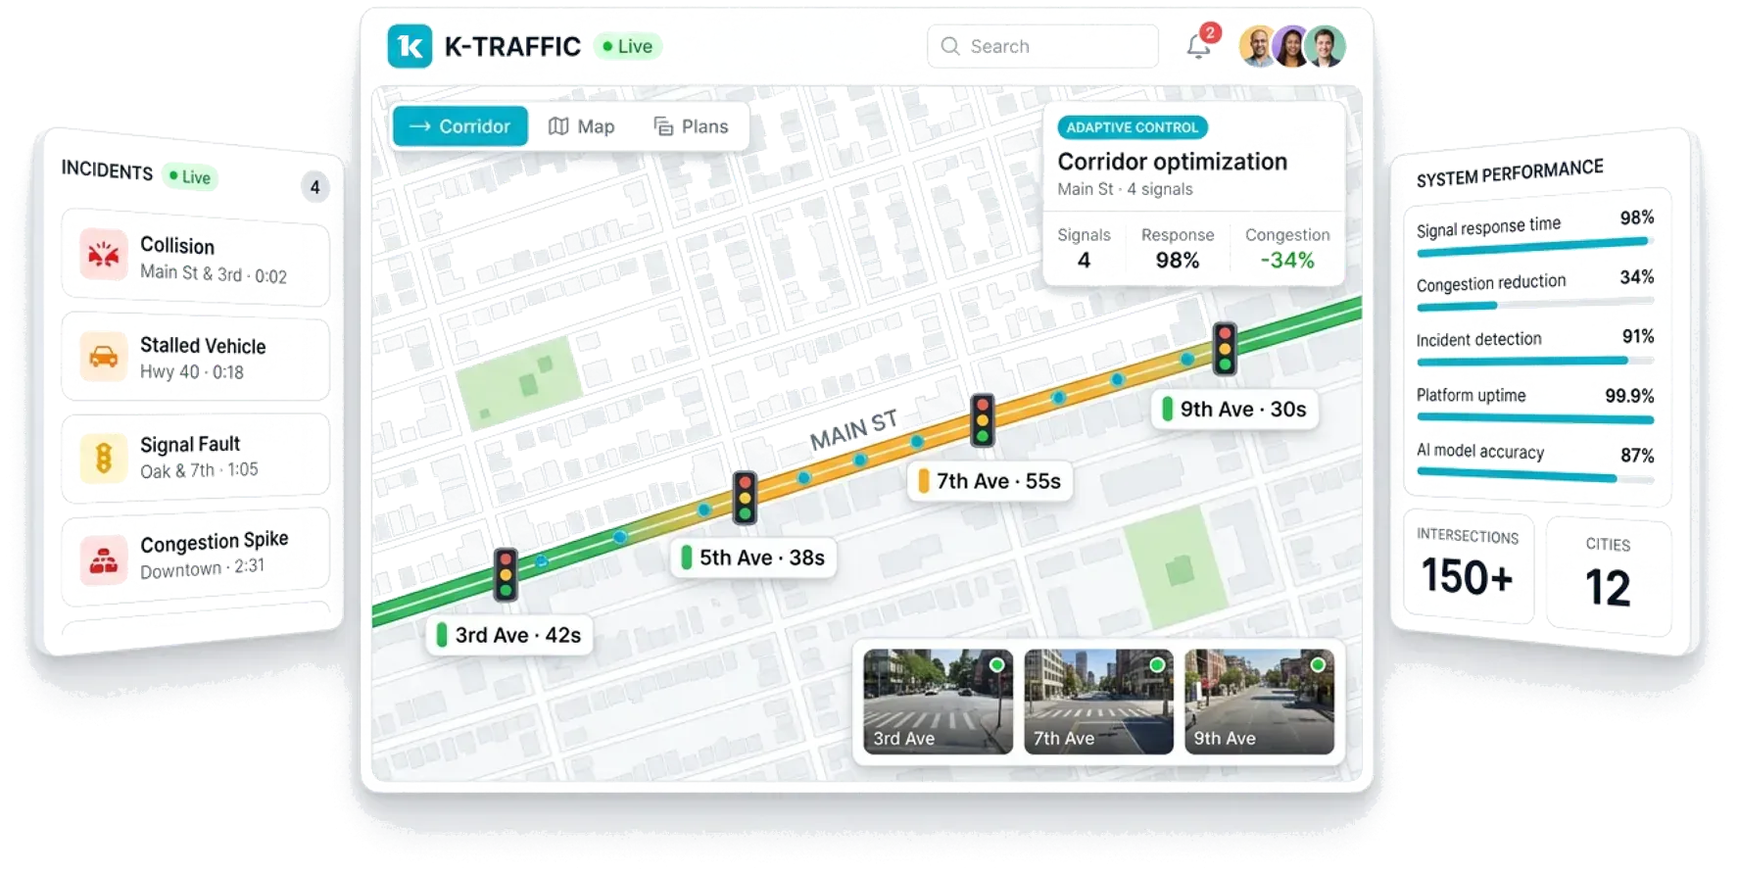
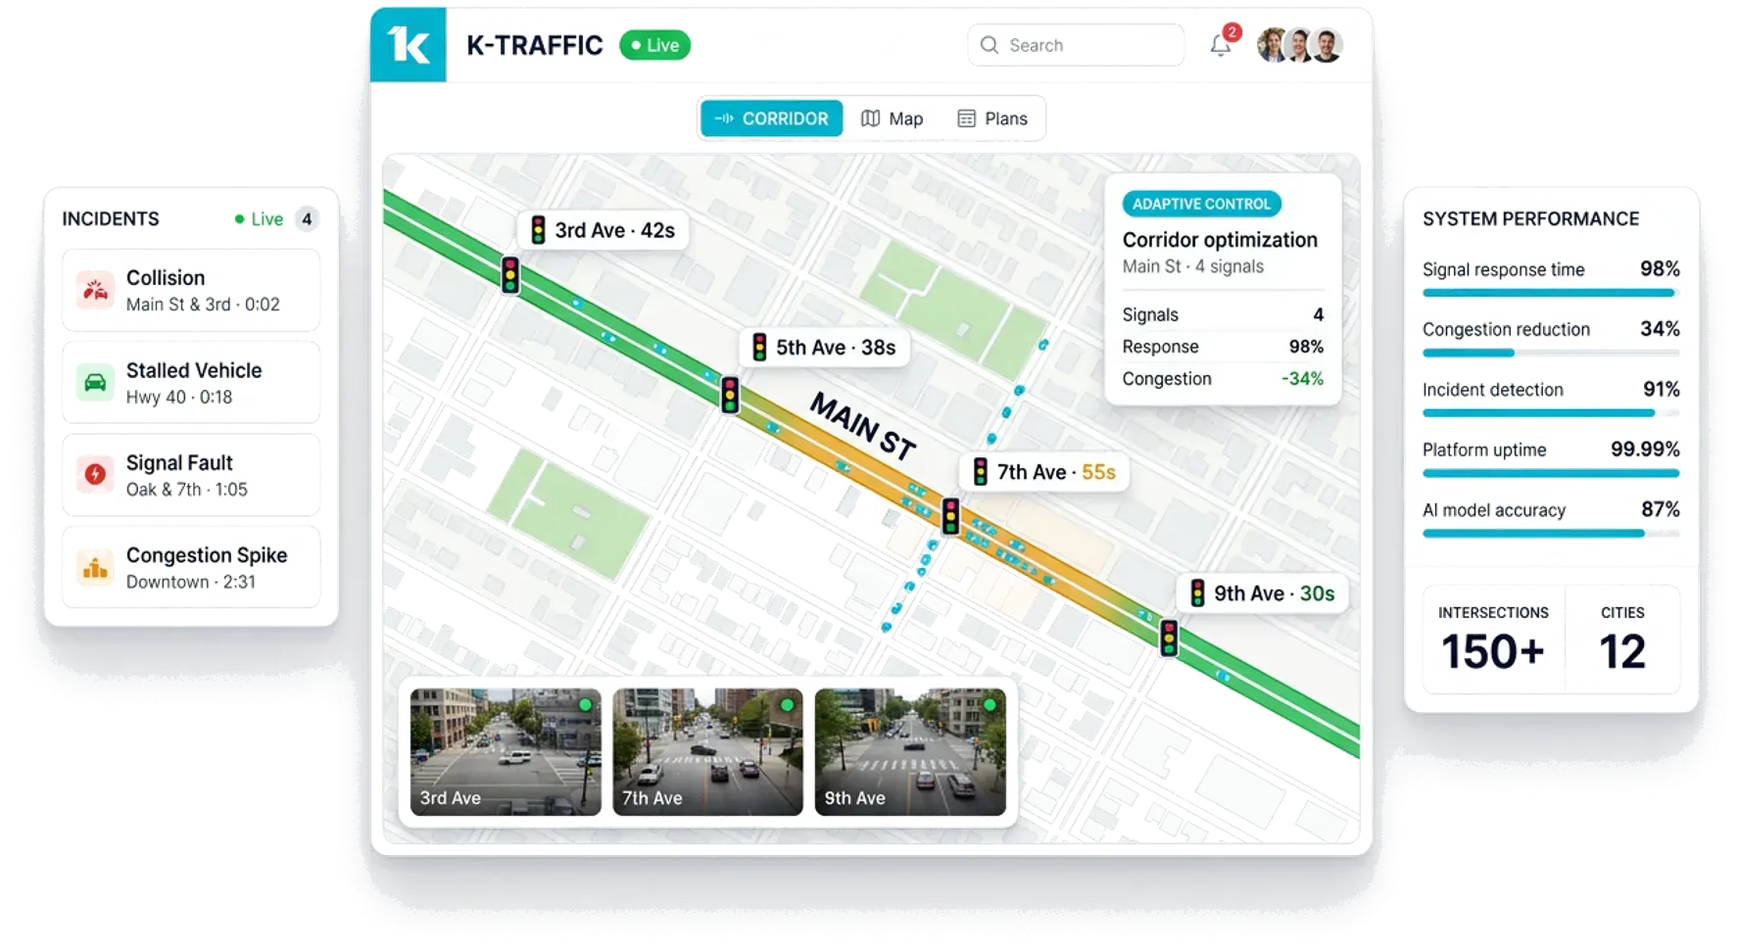
Change: reconcile citizens to 73M and uptime to 99.99% (v2.321)
The site was split between 70M and 73M — hero-lab said 70M+ while every
/vs/* page already said 73M. 40 files now carry 73M and none carry 70M.
99.9% becomes 99.99% across 32 occurrences.

The K-Video and K-Traffic performance panels bake their uptime figure
into the artwork, so a text-only change would have left both heroes
contradicting the copy beside them. Both regenerated with 99.99% and
reprocessed through the knockout/trim/1K-mark pipeline. Every other
in-use image was checked; none carries an uptime or citizens figure.

99.999% in resources/what-is-a-psap is left alone — that is the PSAP
five-nines industry standard, and 99.9% does not occur inside it.

diff --git a/src/components/hero-lab/sol-kvideo.ts b/src/components/hero-lab/sol-kvideo.ts
@@ -34,7 +34,7 @@ const KVIDEO: SolutionContent = {
   consoleTitle: S('K-VIDEO · LIVE WALL', 'K-VIDEO · MURO EN VIVO'),
   stats: [
     { v: '1,204+', l: S('Active cameras', 'Cámaras activas') },
-    { v: '99.9%', l: S('Uptime', 'Disponibilidad') },
+    { v: '99.99%', l: S('Uptime', 'Disponibilidad') },
     { v: '15+', l: S('AI models', 'Modelos de IA') },
   ],
 
@@ -63,8 +63,8 @@ const KVIDEO: SolutionContent = {
     },
     {
       icon: 'scale', t: S('Highly scalable & redundant', 'Altamente escalable y redundante'),
-      d: S('Microservices architecture handles thousands of cameras with 99.9% uptime and automatic failover.',
-        'Arquitectura de microservicios que maneja miles de cámaras con 99.9% de disponibilidad y conmutación automática por fallo.'),
+      d: S('Microservices architecture handles thousands of cameras with 99.99% uptime and automatic failover.',
+        'Arquitectura de microservicios que maneja miles de cámaras con 99.99% de disponibilidad y conmutación automática por fallo.'),
     },
     {
       icon: 'shield', t: S('Security & compliance', 'Seguridad y cumplimiento'),
@@ -144,9 +144,9 @@ const KVIDEO: SolutionContent = {
     { l: S('Face recognition accuracy', 'Precisión de reconocimiento facial'), v: '94%', w: '94%' },
     { l: S('LPR read rate', 'Tasa de lectura LPR'), v: '99%', w: '99%' },
     { l: S('Anomaly detection rate', 'Detección de anomalías'), v: '88%', w: '88%' },
-    /* Bar capped at 99% so a 99.9% claim doesn't render as a completely full
+    /* Bar capped at 99% so a 99.99% claim doesn't render as a completely full
        track — same treatment as K-Traffic's uptime bar. */
-    { l: S('Platform uptime', 'Disponibilidad de plataforma'), v: '99.9%', w: '99%' },
+    { l: S('Platform uptime', 'Disponibilidad de plataforma'), v: '99.99%', w: '99%' },
   ],
 
   processEyebrow: S('THE PROCESS', 'EL PROCESO'),
@@ -194,8 +194,8 @@ const KVIDEO: SolutionContent = {
     {
       q: S('How many cameras can K-Video manage?',
         '¿Cuántas cámaras puede gestionar K-Video?'),
-      a: S('K-Video supports over 10,000 cameras through its microservices architecture. It handles IP cameras, body cams, and drone streams with 99.9% uptime and automatic failover.',
-        'K-Video soporta más de 10,000 cámaras gracias a su arquitectura de microservicios. Maneja cámaras IP, body cams y streams de drones con 99.9% de disponibilidad y conmutación automática por fallo.'),
+      a: S('K-Video supports over 10,000 cameras through its microservices architecture. It handles IP cameras, body cams, and drone streams with 99.99% uptime and automatic failover.',
+        'K-Video soporta más de 10,000 cámaras gracias a su arquitectura de microservicios. Maneja cámaras IP, body cams y streams de drones con 99.99% de disponibilidad y conmutación automática por fallo.'),
     },
     {
       q: S('Does K-Video support third-party cameras?',
@@ -246,7 +246,7 @@ const KVIDEO: SolutionContent = {
     'Cámaras de múltiples fabricantes y municipios alimentan una sola imagen operativa estatal, con analítica e investigaciones sobre toda la red en vez de sistema por sistema.'),
   caseStats: [
     { v: S('Multi-vendor', 'Multi-fabricante'), l: S('Camera network', 'Red de cámaras') },
-    { v: '99.9%', l: S('Platform uptime', 'Disponibilidad de plataforma') },
+    { v: '99.99%', l: S('Platform uptime', 'Disponibilidad de plataforma') },
     { v: '15+', l: S('AI models running', 'Modelos de IA activos') },
   ],
   caseNote: S('Figures reflect reported platform performance. Deployment details subject to customer approval.',

diff --git a/src/app/[locale]/industries/public-safety/page.tsx b/src/app/[locale]/industries/public-safety/page.tsx
@@ -40,12 +40,12 @@ export default async function PublicSafetyPage({
       ? [
           { value: '40+', label: 'Proyectos Activos' },
           { value: '73M', label: 'Ciudadanos Protegidos' },
-          { value: '99.9%', label: 'Disponibilidad' },
+          { value: '99.99%', label: 'Disponibilidad' },
         ]
       : [
           { value: '40+', label: 'Active Projects' },
           { value: '73M', label: 'Citizens Protected' },
-          { value: '99.9%', label: 'Platform Uptime' },
+          { value: '99.99%', label: 'Platform Uptime' },
         ],
     cta1: es ? 'Solicita una Demo' : 'Book a Demo',
     cta2: es ? 'Ver la Plataforma' : 'See the Platform',
@@ -219,12 +219,12 @@ export default async function PublicSafetyPage({
 
   const publicSafetyFaqs = es ? [
     { question: '¿Cómo ayuda KabatOne a la seguridad pública?', answer: 'KabatOne proporciona una plataforma unificada que transforma datos fragmentados de la ciudad en inteligencia accionable y respuesta coordinada. Conecta cámaras, sensores, drones y sistemas de comunicación en una sola imagen operativa.' },
-    { question: '¿Cuántas ciudades protege KabatOne?', answer: 'KabatOne opera en más de 40 proyectos activos, protegiendo a más de 73 millones de ciudadanos con una disponibilidad de plataforma del 99.9%.' },
+    { question: '¿Cuántas ciudades protege KabatOne?', answer: 'KabatOne opera en más de 40 proyectos activos, protegiendo a más de 73 millones de ciudadanos con una disponibilidad de plataforma del 99.99%.' },
     { question: '¿Qué productos ofrece KabatOne para seguridad pública?', answer: 'KabatOne despliega la suite completa: K-Safety para conciencia situacional, K-Dispatch para despacho CAD, K-Traffic para gestión de tráfico, K-Video para gestión de video y K-Connect para video comunitario compartido.' },
     { question: '¿Cómo reduce KabatOne los tiempos de respuesta?', answer: 'Los motores de reglas impulsados por IA detectan incidentes automáticamente, activan protocolos y despachan recursos. El despacho inteligente y la analítica geoespacial aseguran que las unidades correctas lleguen a las ubicaciones correctas en el menor tiempo.' },
   ] : [
     { question: 'How does KabatOne help public safety?', answer: 'KabatOne provides a unified platform that transforms fragmented city data into actionable intelligence and coordinated response. It connects cameras, sensors, drones, and communication systems into a single operational picture.' },
-    { question: 'How many cities does KabatOne protect?', answer: 'KabatOne operates across 40+ active projects, protecting over 73 million citizens with 99.9% platform uptime.' },
+    { question: 'How many cities does KabatOne protect?', answer: 'KabatOne operates across 40+ active projects, protecting over 73 million citizens with 99.99% platform uptime.' },
     { question: 'What products does KabatOne offer for public safety?', answer: 'KabatOne deploys the complete suite: K-Safety for situational awareness, K-Dispatch for CAD dispatch, K-Traffic for traffic management, K-Video for video management, and K-Connect for community video sharing.' },
     { question: 'How does KabatOne reduce response times?', answer: 'AI-powered rule engines automatically detect incidents, trigger protocols, and dispatch resources. Smart dispatch and geospatial analytics ensure the right units reach the right locations in minimum time.' },
   ]

diff --git a/src/app/[locale]/resources/what-is-emergency-dispatch-software/page.tsx b/src/app/[locale]/resources/what-is-emergency-dispatch-software/page.tsx
@@ -50,7 +50,7 @@ export default async function WhatIsEmergencyDispatchSoftwarePage({
         {
           question: '¿Qué características debe tener un buen software de despacho de emergencias?',
           answer:
-            'Los seis criterios clave son: (1) Mapa operativo en tiempo real con posición GPS de todas las unidades, (2) Integración con sistemas de video para ver cámaras cercanas al incidente antes de despachar, (3) Multi-agencia — capacidad de coordinar policía, bomberos y EMS en un solo entorno, (4) Registro automático de tiempos para cumplimiento normativo y análisis de rendimiento, (5) Disponibilidad alta (99.9%+) con redundancia ante fallos, (6) Integración con infraestructura NG911 para recibir texto, imagen y video de ciudadanos.',
+            'Los seis criterios clave son: (1) Mapa operativo en tiempo real con posición GPS de todas las unidades, (2) Integración con sistemas de video para ver cámaras cercanas al incidente antes de despachar, (3) Multi-agencia — capacidad de coordinar policía, bomberos y EMS en un solo entorno, (4) Registro automático de tiempos para cumplimiento normativo y análisis de rendimiento, (5) Disponibilidad alta (99.99%+) con redundancia ante fallos, (6) Integración con infraestructura NG911 para recibir texto, imagen y video de ciudadanos.',
         },
         {
           question: '¿Cómo apoya KabatOne el despacho de emergencias?',
@@ -82,7 +82,7 @@ export default async function WhatIsEmergencyDispatchSoftwarePage({
         {
           question: 'What features should good emergency dispatch software have?',
           answer:
-            'The six key criteria are: (1) Real-time operational map with GPS position of all units, (2) Video integration to view cameras near the incident before dispatching, (3) Multi-agency capability — ability to coordinate police, fire, and EMS in a single environment, (4) Automatic time logging for regulatory compliance and performance analysis, (5) High availability (99.9%+) with failover redundancy, (6) NG911 integration to receive text, image, and video from citizens.',
+            'The six key criteria are: (1) Real-time operational map with GPS position of all units, (2) Video integration to view cameras near the incident before dispatching, (3) Multi-agency capability — ability to coordinate police, fire, and EMS in a single environment, (4) Automatic time logging for regulatory compliance and performance analysis, (5) High availability (99.99%+) with failover redundancy, (6) NG911 integration to receive text, image, and video from citizens.',
         },
         {
           question: 'How does KabatOne support emergency dispatch?',

diff --git a/src/app/[locale]/resources/ai-in-public-safety/page.tsx b/src/app/[locale]/resources/ai-in-public-safety/page.tsx
@@ -54,7 +54,7 @@ export default async function AiInPublicSafetyPage({
         {
           question: '¿Qué debo buscar en una plataforma de IA para seguridad pública?',
           answer:
-            'Los criterios clave son: integración nativa con CAD y VMS (no middleware de terceros), transparencia del modelo (puedes ver qué detectó la IA y por qué), personalización de umbrales (ajustar la sensibilidad según el contexto operativo), auditoría completa de alertas y acciones, soporte para cámaras de múltiples fabricantes (no propietario de hardware), y SLA de disponibilidad del 99.9% o superior. Solicita siempre una demo con datos reales de tu ciudad, no con datos de demostración.',
+            'Los criterios clave son: integración nativa con CAD y VMS (no middleware de terceros), transparencia del modelo (puedes ver qué detectó la IA y por qué), personalización de umbrales (ajustar la sensibilidad según el contexto operativo), auditoría completa de alertas y acciones, soporte para cámaras de múltiples fabricantes (no propietario de hardware), y SLA de disponibilidad del 99.99% o superior. Solicita siempre una demo con datos reales de tu ciudad, no con datos de demostración.',
         },
       ]
     : [
@@ -86,7 +86,7 @@ export default async function AiInPublicSafetyPage({
         {
           question: 'What should I look for in an AI platform for public safety?',
           answer:
-            'Key criteria: native integration with CAD and VMS (no third-party middleware), model transparency (you can see what the AI detected and why), threshold customization (adjust sensitivity based on operational context), full audit trail of alerts and actions, support for cameras from multiple manufacturers (no hardware lock-in), and 99.9%+ uptime SLA. Always request a demo with real data from your city, not demonstration data.',
+            'Key criteria: native integration with CAD and VMS (no third-party middleware), model transparency (you can see what the AI detected and why), threshold customization (adjust sensitivity based on operational context), full audit trail of alerts and actions, support for cameras from multiple manufacturers (no hardware lock-in), and 99.99%+ uptime SLA. Always request a demo with real data from your city, not demonstration data.',
         },
       ]
 

diff --git a/changelog.html b/changelog.html
@@ -356,6 +356,21 @@
 
     <div class="timeline">
 
+      <!-- v2.321 -->
+      <div class="tl-entry changed" id="v2.321">
+        <div class="tl-meta"><span class="tl-ver">v2.321</span><span class="tl-date">2026-08-06</span></div>
+        <div class="tl-title">Reconcile citizens protected to 73M and uptime to 99.99%</div>
+        <div class="tl-body">
+          <ul class="version-changes">
+            <li><strong>70M → 73M everywhere.</strong> The site had been split between the two figures — hero-lab said 70M+ while every <code>/vs/*</code> page already said 73M. Ten occurrences moved across the homepage, LP page, <code>/vs/tyler-technologies</code>, <code>end-of-siloed-response</code>, <code>ProofBar</code>, <code>HeroV3Platform</code> and the EN metadata. <strong>40 files now carry 73M and none carry 70M</strong></li>
+            <li><strong>99.9% → 99.99% everywhere</strong> — 32 occurrences across solution pages, industry pages, resource articles, industry hero components and the hero-lab proof bar</li>
+            <li><strong>Two hero images had 99.9% baked into the artwork.</strong> The K-Video and K-Traffic performance panels are pixels, not DOM, so a text-only change would have left each hero contradicting the copy beside it. Both regenerated with "Platform uptime 99.99%" and reprocessed through the usual knockout/trim/1K-mark pipeline. Every other in-use image was checked against a contact sheet — none carries an uptime or citizens figure</li>
+            <li><code>99.999%</code> survives in <code>resources/what-is-a-psap</code> and is correct: it is the PSAP industry "five nines" standard, in an untouched file. The substitution could not have produced it — <code>99.9%</code> does not occur inside <code>99.999%</code></li>
+            <li>The uptime progress bars stay capped at <code>w: '99%'</code> so a 99.99% claim does not render as a visually full bar; only the label changed</li>
+          </ul>
+        </div>
+      </div>
+
       <!-- v2.320 -->
       <div class="tl-entry fix" id="v2.320">
         <div class="tl-meta"><span class="tl-ver">v2.320</span><span class="tl-date">2026-08-06</span></div>

diff --git a/src/app/[locale]/vs/tyler-technologies/page.tsx b/src/app/[locale]/vs/tyler-technologies/page.tsx
@@ -247,8 +247,8 @@ export default async function VsTylerTechnologiesPage({
             </p>
             <p style={{ fontSize: '16px', color: 'var(--dim)', lineHeight: 1.75, marginBottom: '20px' }}>
               {es
-                ? 'En seguridad pública específicamente, Tyler opera el portafolio heredado de New World Public Safety (adquirido en 2015 por aproximadamente $670 millones), que incluye Enterprise CAD, Enterprise Supervisor (RMS), Enterprise Justice, gestión de tribunales y movilidad de campo. Tyler ha estado modernizando gradualmente este portafolio hacia arquitectura en la nube, pero muchos despliegues siguen siendo on-premise.'
-                : 'In public safety specifically, Tyler operates the legacy New World Public Safety portfolio (acquired in 2015 for approximately $670 million), which includes Enterprise CAD, Enterprise Supervisor (RMS), Enterprise Justice, court management, and field mobility. Tyler has been gradually modernizing this portfolio toward cloud architecture, but many deployments remain on-premise.'}
+                ? 'En seguridad pública específicamente, Tyler opera el portafolio heredado de New World Public Safety (adquirido en 2015 por aproximadamente $673 millones), que incluye Enterprise CAD, Enterprise Supervisor (RMS), Enterprise Justice, gestión de tribunales y movilidad de campo. Tyler ha estado modernizando gradualmente este portafolio hacia arquitectura en la nube, pero muchos despliegues siguen siendo on-premise.'
+                : 'In public safety specifically, Tyler operates the legacy New World Public Safety portfolio (acquired in 2015 for approximately $673 million), which includes Enterprise CAD, Enterprise Supervisor (RMS), Enterprise Justice, court management, and field mobility. Tyler has been gradually modernizing this portfolio toward cloud architecture, but many deployments remain on-premise.'}
             </p>
             <p style={{ fontSize: '16px', color: 'var(--dim)', lineHeight: 1.75 }}>
               {es

diff --git a/src/components/hero-lab/HeroV3Platform.tsx b/src/components/hero-lab/HeroV3Platform.tsx
@@ -20,9 +20,9 @@ const T = {
   demo: { en: 'Book a Demo', es: 'Solicita una Demo' },
   watch: { en: 'Watch Overview', es: 'Ver Resumen' },
   stats: [
-    { num: '70M+', en: 'Citizens Protected', es: 'Ciudadanos Protegidos', icon: 'people' },
+    { num: '73M+', en: 'Citizens Protected', es: 'Ciudadanos Protegidos', icon: 'people' },
     { num: '40+', en: 'Cities Deployed', es: 'Ciudades Desplegadas', icon: 'city' },
-    { num: '99.9%', en: 'Uptime SLA', es: 'Disponibilidad SLA', icon: 'shield' },
+    { num: '99.99%', en: 'Uptime SLA', es: 'Disponibilidad SLA', icon: 'shield' },
   ],
 }
 
@@ -147,7 +147,7 @@ function MobileCard({ es }: { es: boolean }) {
       <div className="hll-mobile-metrics">
         <span><strong>1,842</strong><small>{es ? 'Usuarios de respuesta' : 'Responder users'}</small></span>
         <span><strong>5,736</strong><small>{es ? 'Usuarios ciudadanos' : 'Citizen users'}</small></span>
-        <span><strong>99.9%</strong><small>{es ? 'Disponibilidad' : 'App uptime'}</small></span>
+        <span><strong>99.99%</strong><small>{es ? 'Disponibilidad' : 'App uptime'}</small></span>
       </div>
     </article>
   )

diff --git a/src/components/hero-lab/sol-ktraffic.ts b/src/components/hero-lab/sol-ktraffic.ts
@@ -5,7 +5,7 @@
    Notes on this one: it uses `pin` and `bell` as benefit icons, which exist
    only in the flow-icon set — they resolve through the bidirectional fallback
    in SolutionPage. The performance panel has five bars rather than four, and
-   uptime deliberately shows "99.9%" while the bar itself is capped at 99%.
+   uptime deliberately shows "99.99%" while the bar itself is capped at 99%.
 
    Non-breaking hyphens (U+2011) in "K‑Traffic" inside prose are the design's
    own, kept so the product name never breaks across lines. */
@@ -146,7 +146,7 @@ const KTRAFFIC: SolutionContent = {
     { l: S('Signal response time', 'Tiempo de respuesta de señal'), v: '98%', w: '98%' },
     { l: S('Congestion reduction', 'Reducción de congestión'), v: '34%', w: '34%' },
     { l: S('Incident detection rate', 'Tasa de detección de incidentes'), v: '91%', w: '91%' },
-    { l: S('Platform uptime', 'Disponibilidad de plataforma'), v: '99.9%', w: '99%' },
+    { l: S('Platform uptime', 'Disponibilidad de plataforma'), v: '99.99%', w: '99%' },
     { l: S('AI model accuracy', 'Precisión del modelo IA'), v: '87%', w: '87%' },
   ],
 

diff --git a/src/app/[locale]/page.tsx b/src/app/[locale]/page.tsx
@@ -383,8 +383,8 @@ export default async function HomePage({
           {/* Subtitle */}
           <p className="hp-sub">
             {es
-              ? 'KabatOne es la plataforma de mando y control para gobiernos y agencias de seguridad pública. Cinco soluciones integradas. Una imagen operativa unificada. Utilizada por más de 40 ciudades, protegiendo a 70 millones de ciudadanos.'
-              : 'KabatOne is the command-and-control platform for governments and public safety agencies. Five integrated solutions. One common operating picture. Trusted by 40+ cities, protecting 70 million citizens.'}
+              ? 'KabatOne es la plataforma de mando y control para gobiernos y agencias de seguridad pública. Cinco soluciones integradas. Una imagen operativa unificada. Utilizada por más de 40 ciudades, protegiendo a 73 millones de ciudadanos.'
+              : 'KabatOne is the command-and-control platform for governments and public safety agencies. Five integrated solutions. One common operating picture. Trusted by 40+ cities, protecting 73 million citizens.'}
           </p>
 
           {/* CTA Row */}

diff --git a/src/app/[locale]/resources/what-is-video-management-software/page.tsx b/src/app/[locale]/resources/what-is-video-management-software/page.tsx
@@ -202,13 +202,13 @@ export default async function WhatIsVideoManagementSoftwarePage({
                   { value: '10,000+', label: 'Cámaras por instancia VMS' },
                   { value: '< 2 seg', label: 'Latencia de alerta de IA' },
                   { value: '30–40%', label: 'Reducción en tiempo de respuesta' },
-                  { value: '99.9%', label: 'Uptime en despliegues de ciudad' },
+                  { value: '99.99%', label: 'Uptime en despliegues de ciudad' },
                 ]
               : [
                   { value: '10,000+', label: 'Cameras per VMS instance' },
                   { value: '< 2 sec', label: 'AI alert latency' },
                   { value: '30–40%', label: 'Reduction in response time' },
-                  { value: '99.9%', label: 'Uptime in city deployments' },
+                  { value: '99.99%', label: 'Uptime in city deployments' },
                 ]
             ).map((stat, i) => (
               <div key={i}>

diff --git a/src/app/[locale]/k-traffic/page.tsx b/src/app/[locale]/k-traffic/page.tsx
@@ -103,13 +103,13 @@ export default async function KTrafficPage({
     { label: 'Tiempo de Respuesta de Señal', value: '98%', width: '98%' },
     { label: 'Reducción de Congestión', value: '34%', width: '34%' },
     { label: 'Tasa de Detección de Incidentes', value: '91%', width: '91%' },
-    { label: 'Disponibilidad de Plataforma', value: '99.9%', width: '99%' },
+    { label: 'Disponibilidad de Plataforma', value: '99.99%', width: '99%' },
     { label: 'Precisión del Modelo IA', value: '87%', width: '87%' },
   ] : [
     { label: 'Signal Response Time', value: '98%', width: '98%' },
     { label: 'Congestion Reduction', value: '34%', width: '34%' },
     { label: 'Incident Detection Rate', value: '91%', width: '91%' },
-    { label: 'Platform Uptime', value: '99.9%', width: '99%' },
+    { label: 'Platform Uptime', value: '99.99%', width: '99%' },
     { label: 'AI Model Accuracy', value: '87%', width: '87%' },
   ]
 

diff --git a/src/components/hero-lab/ProofBar.tsx b/src/components/hero-lab/ProofBar.tsx
@@ -1,12 +1,12 @@
 /* Shared proof bar for hero-lab variants — reuses the site's existing,
-   already-verified stats (40+ cities, 70M citizens, 99.9% SLA, 24/7) rather
+   already-verified stats (40+ cities, 73M citizens, 99.99% SLA, 24/7) rather
    than inventing new unverified numbers. */
 
 export default function ProofBar({ es }: { es: boolean }) {
   const stats = [
     { v: '40+', l: es ? 'Ciudades desplegadas' : 'Cities deployed' },
-    { v: '70M+', l: es ? 'Ciudadanos protegidos' : 'Citizens protected' },
-    { v: '99.9%', l: es ? 'Disponibilidad SLA' : 'Uptime SLA' },
+    { v: '73M+', l: es ? 'Ciudadanos protegidos' : 'Citizens protected' },
+    { v: '99.99%', l: es ? 'Disponibilidad SLA' : 'Uptime SLA' },
     { v: '24/7', l: es ? 'Soporte operativo' : 'Operations support' },
   ]
   return (
